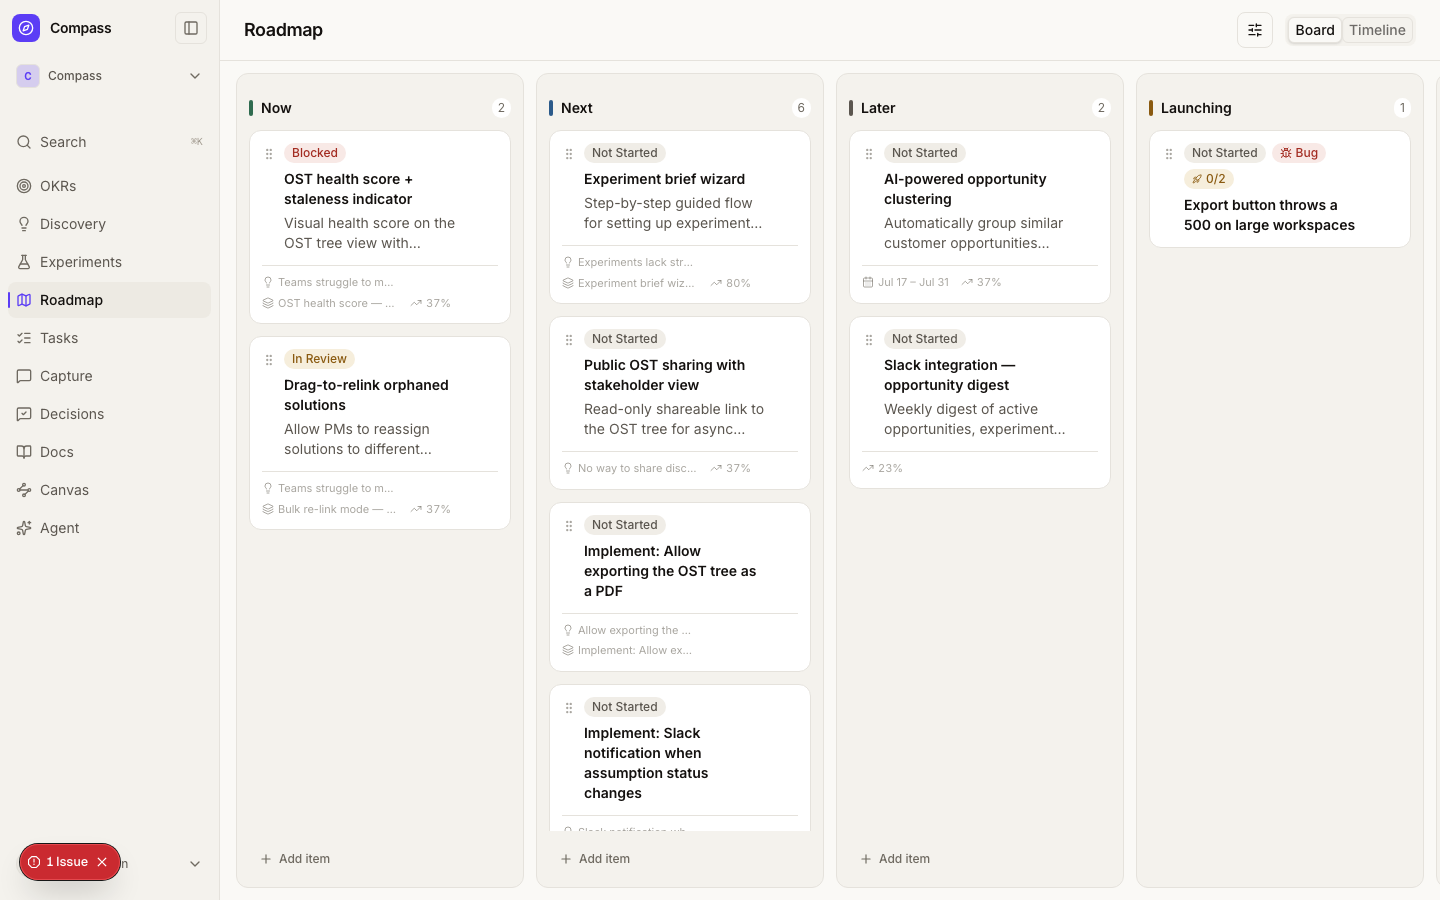
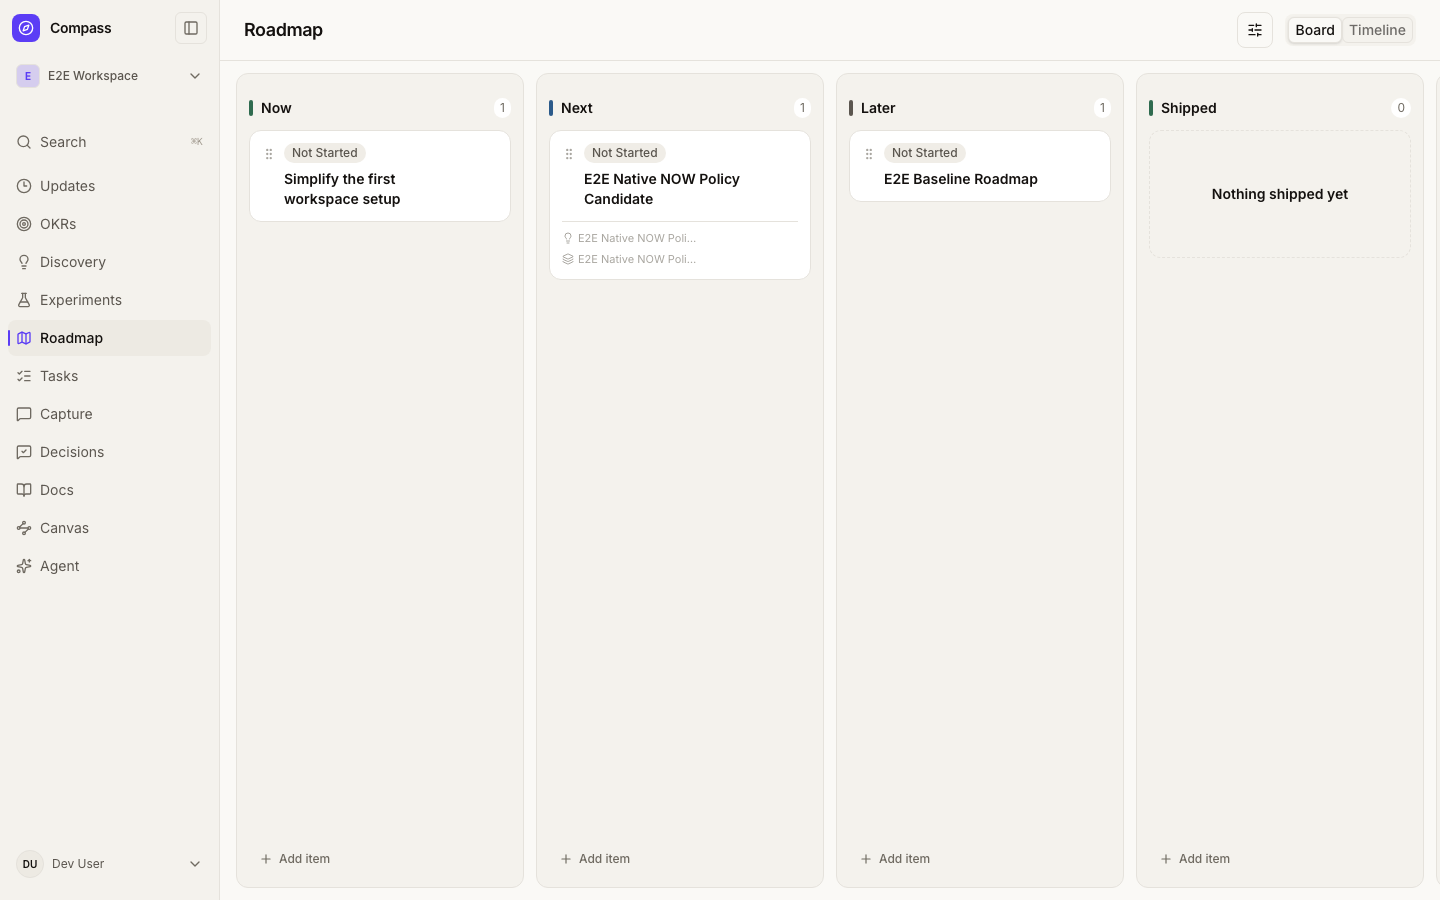
fix: restore mobile Kanban scrolling and touch panning (#290)
* fix: restore mobile Kanban scrolling and touch panning

* fix: fit mobile Kanban columns to available board width

* docs: regenerate desktop and mobile Kanban guide screenshots

diff --git a/e2e/functional/specs/kanban-mobile-scroll.spec.ts b/e2e/functional/specs/kanban-mobile-scroll.spec.ts
@@ -1,0 +1,168 @@
+import { randomUUID } from "node:crypto";
+import pg from "pg";
+import type { Locator, Page } from "@playwright/test";
+import { test, expect } from "../fixtures/index";
+
+test.use({ hasTouch: true, isMobile: true });
+
+async function swipe(page: Page, card: Locator, dx: number, dy: number) {
+  const box = (await card.boundingBox())!;
+  const x = Math.min(box.x + box.width / 2, 280);
+  const y = box.y + box.height / 2;
+  // Real browser touch input, starting on card content rather than its drag
+  // handle. Setting scrollTop would conceal touch-action interception.
+  const touch = await page.context().newCDPSession(page);
+  await touch.send("Input.dispatchTouchEvent", { type: "touchStart", touchPoints: [{ x, y }] });
+  for (let step = 1; step <= 8; step++) {
+    await touch.send("Input.dispatchTouchEvent", { type: "touchMove", touchPoints: [{ x: x + dx * step / 8, y: y + dy * step / 8 }] });
+    await page.waitForTimeout(20);
+  }
+  await touch.send("Input.dispatchTouchEvent", { type: "touchEnd", touchPoints: [] });
+  await touch.detach();
+}
+
+const boards = [
+  { route: "tasks", table: "tasks", extra: "status", value: "BACKLOG" },
+  { route: "discovery", table: "opportunities", extra: "status", value: "EXPLORING" },
+  { route: "experiments", table: "experiments", extra: "status", value: "DESIGNING" },
+  { route: "roadmap", table: "roadmap_items", extra: "horizon", value: "NOW" },
+] as const;
+
+test("solution swimlane card content supports vertical and horizontal touch scrolling", async ({ page, base }) => {
+  const database = new URL(process.env.DATABASE_URL!);
+  if (!["localhost", "127.0.0.1"].includes(database.hostname) || database.pathname !== "/compass_e2e") {
+    throw new Error("Kanban scroll test requires the dedicated local compass_e2e database");
+  }
+  const pool = new pg.Pool({ connectionString: database.toString() });
+  const opportunityId = randomUUID();
+  const ids = Array.from({ length: 18 }, () => randomUUID());
+  try {
+    const workspace = (await pool.query("SELECT w.id FROM compass_dev.workspaces w JOIN compass_dev.organizations o ON w.organization_id=o.id WHERE w.slug='e2e-workspace' AND o.slug='e2e-test-org'")).rows[0];
+    await pool.query("INSERT INTO compass_dev.opportunities (id,workspace_id,title,sort_order) VALUES ($1,$2,'Mobile solution lane',-100)", [opportunityId, workspace.id]);
+    for (const [index, id] of ids.entries()) {
+      await pool.query("INSERT INTO compass_dev.solutions (id,opportunity_id,title,sort_order) VALUES ($1,$2,$3,$4)", [id, opportunityId, `Mobile solution ${index + 1}`, index]);
+    }
+    await page.setViewportSize({ width: 390, height: 844 });
+    await page.goto(`${base}/discovery?view=board&groupBy=opportunity`);
+    await page.waitForLoadState("networkidle");
+    const first = page.getByText("Mobile solution 1", { exact: true });
+    for (const width of [320, 390, 767]) {
+      await page.setViewportSize({ width, height: 844 });
+      const column = first.locator("xpath=ancestor::*[@data-slot='swimlane-column'][1]");
+      const region = column.locator("xpath=ancestor::*[@role='region'][1]");
+      await expect.poll(async () => Math.abs((await column.boundingBox())!.width - (await region.boundingBox())!.width)).toBeLessThan(2);
+    }
+    await page.setViewportSize({ width: 390, height: 844 });
+    await expect(first).toBeInViewport();
+    const firstTop = (await first.boundingBox())!.y;
+    await swipe(page, first, 0, -140);
+    await expect.poll(async () => (await first.boundingBox())!.y).toBeLessThan(firstTop - 50);
+    await page.reload();
+    await page.waitForLoadState("networkidle");
+    const firstLeft = (await first.boundingBox())!.x;
+    await swipe(page, first, -80, 0);
+    await expect.poll(async () => (await first.boundingBox())!.x).toBeLessThan(firstLeft - 35);
+  } finally {
+    await pool.query("DELETE FROM compass_dev.solutions WHERE id=ANY($1::uuid[])", [ids]);
+    await pool.query("DELETE FROM compass_dev.opportunities WHERE id=$1", [opportunityId]);
+    await pool.end();
+  }
+});
+
+for (const board of boards) {
+  test(`${board.route} mobile Kanban scrolls by wheel and touch while desktop keeps independent columns`, async ({ page, base }, testInfo) => {
+    const database = new URL(process.env.DATABASE_URL!);
+    if (!["localhost", "127.0.0.1"].includes(database.hostname) || database.pathname !== "/compass_e2e") {
+      throw new Error("Kanban scroll test requires the dedicated local compass_e2e database");
+    }
+    const pool = new pg.Pool({ connectionString: database.toString() });
+    const ids = Array.from({ length: 18 }, () => randomUUID());
+    try {
+      const workspace = (await pool.query("SELECT w.id FROM compass_dev.workspaces w JOIN compass_dev.organizations o ON w.organization_id=o.id WHERE w.slug='e2e-workspace' AND o.slug='e2e-test-org'")).rows[0];
+      for (const [index, id] of ids.entries()) {
+        const extraColumns = board.route === "experiments" ? ",hypothesis,method,kill_condition" : "";
+        const extraValues = board.route === "experiments" ? ",'Test hypothesis','Test method','Test stop condition'" : "";
+        // Table and column names come only from the static cases above.
+        await pool.query(`INSERT INTO compass_dev.${board.table} (id, workspace_id, title, sort_order, ${board.extra}${extraColumns}) VALUES ($1,$2,$3,$4,$5${extraValues})`, [id, workspace.id, `Mobile scroll card ${index + 1}`, index - 100, board.value]);
+      }
+      await page.setViewportSize({ width: 390, height: 844 });
+      await page.goto(`${base}/${board.route}?view=board`);
+      await page.waitForLoadState("networkidle");
+      const first = page.getByText("Mobile scroll card 1", { exact: true });
+      const last = page.getByText("Mobile scroll card 18", { exact: true });
+      for (const width of [320, 390, 767]) {
+        await page.setViewportSize({ width, height: 844 });
+        const region = page.getByRole("region", { name: /board/i }).first();
+        const column = first.locator("xpath=ancestor::section[1]");
+        const gutters = width < 640 ? 24 : 32;
+        await expect.poll(async () => Math.abs((await column.boundingBox())!.width - ((await region.boundingBox())!.width - gutters))).toBeLessThan(2);
+        if (board.route === "roadmap") {
+          const unscheduled = page.getByTestId("roadmap-unscheduled-column");
+          await expect.poll(async () => Math.abs((await unscheduled.boundingBox())!.width - ((await region.boundingBox())!.width - gutters))).toBeLessThan(2);
+          await expect(unscheduled).toHaveCSS("overflow-y", "visible");
+        }
+      }
+      await page.setViewportSize({ width: 390, height: 844 });
+      await expect(first).toBeInViewport();
+      await expect(last).not.toBeInViewport();
+      await page.mouse.move(170, 550);
+      for (let i = 0; i < 8; i++) {
+        await page.mouse.wheel(0, 650);
+        await page.waitForTimeout(100);
+      }
+      await expect(last).toBeInViewport();
+      await expect(first).not.toBeInViewport();
+      await page.screenshot({ path: testInfo.outputPath(`${board.route}-mobile-bottom.png`) });
+
+      await page.reload();
+      await page.waitForLoadState("networkidle");
+      const firstTop = (await first.boundingBox())!.y;
+      await swipe(page, first, 0, -140);
+      await expect.poll(async () => (await first.boundingBox())!.y).toBeLessThan(firstTop - 50);
+
+      await page.reload();
+      await page.waitForLoadState("networkidle");
+      const firstLeft = (await first.boundingBox())!.x;
+      await swipe(page, first, -140, 0);
+      await expect.poll(async () => (await first.boundingBox())!.x).toBeLessThan(firstLeft - 50);
+
+      if (board.route === "tasks") {
+        await page.reload();
+        await page.waitForLoadState("networkidle");
+        const second = page.getByText("Mobile scroll card 2", { exact: true });
+        const secondCard = second.locator("xpath=ancestor::*[@data-slot='card'][1]");
+        const handle = secondCard.getByRole("button", { name: "Drag to reorder" });
+        const delta = (await first.boundingBox())!.y - (await second.boundingBox())!.y;
+        const saved = page.waitForResponse(response =>
+          response.request().method() === "POST" &&
+          Boolean(response.request().headers()["next-action"]) &&
+          new URL(response.url()).pathname === `${base}/tasks`
+        );
+        await swipe(page, handle, 0, delta);
+        const response = await saved;
+        expect(await response.finished()).toBeNull();
+        expect(response.ok()).toBe(true);
+        await page.reload();
+        await page.waitForLoadState("networkidle");
+        await expect.poll(async () => (await second.boundingBox())!.y).toBeLessThan((await first.boundingBox())!.y);
+      }
+
+      await page.setViewportSize({ width: 1280, height: 800 });
+      await page.reload();
+      await page.waitForLoadState("networkidle");
+      const column = first.locator("xpath=ancestor::section[1]");
+      expect((await column.boundingBox())!.width).toBeGreaterThanOrEqual(280);
+      expect((await column.boundingBox())!.width).toBeLessThanOrEqual(288);
+      const header = column.locator("header");
+      const headerTop = (await header.boundingBox())!.y;
+      await first.hover();
+      await page.mouse.wheel(0, 6000);
+      await expect(last).toBeInViewport();
+      expect((await header.boundingBox())!.y).toBeCloseTo(headerTop, 0);
+      await page.screenshot({ path: testInfo.outputPath(`${board.route}-desktop-bottom.png`) });
+    } finally {
+      await pool.query(`DELETE FROM compass_dev.${board.table} WHERE id=ANY($1::uuid[])`, [ids]);
+      await pool.end();
+    }
+  });
+}

diff --git a/e2e/screenshots.spec.ts b/e2e/screenshots.spec.ts
@@ -1,6 +1,8 @@
 import { expect, test } from "@playwright/test";
 import path from "path";
 import fs from "fs";
+import { randomUUID } from "node:crypto";
+import pg from "pg";
 import {
   GUIDED_UX_SCREENSHOT_TOKEN,
   buildScreenshotCases,
@@ -31,6 +33,12 @@ type StandardScreenshotCase = {
 };
 
 const STANDARD_PAGES: StandardScreenshotCase[] = [
+  ...[
+    { file: "discovery-board-mobile.png", route: "discovery" },
+    { file: "roadmap-mobile.png", route: "roadmap" },
+    { file: "tasks-mobile.png", route: "tasks" },
+    { file: "experiments-mobile.png", route: "experiments" },
+  ].map(({ file, route }) => ({ file, url: `${WORKSPACE_BASE}/${route}?view=board`, viewport: { width: 390, height: 844 } })),
   ...(FUNCTIONAL || process.env.DOCS_SESSION_FILE
     ? [{ file: "marketing-authenticated.png", url: "/" }]
     : []),
@@ -142,6 +150,31 @@ async function prepareScreenshot(
 }
 
 test.describe("docs screenshots", () => {
+  const screenshotTaskId = randomUUID();
+  const screenshotRoadmapId = randomUUID();
+  let screenshotPool: pg.Pool | undefined;
+
+  test.beforeAll(async () => {
+    if (!FUNCTIONAL) return;
+    const database = new URL(process.env.DATABASE_URL!);
+    if (!["localhost", "127.0.0.1"].includes(database.hostname) || database.pathname !== "/compass_e2e") {
+      throw new Error("Synthetic screenshot cards require the dedicated local compass_e2e database");
+    }
+    screenshotPool = new pg.Pool({ connectionString: database.toString() });
+    const { rows: [workspace] } = await screenshotPool.query("SELECT w.id FROM compass_dev.workspaces w JOIN compass_dev.organizations o ON w.organization_id=o.id WHERE w.slug='e2e-workspace' AND o.slug='e2e-test-org'");
+    await screenshotPool.query("INSERT INTO compass_dev.tasks (id,workspace_id,title,status,sort_order) VALUES ($1,$2,'Prepare customer interview questions','BACKLOG',-100)", [screenshotTaskId, workspace.id]);
+    await screenshotPool.query("INSERT INTO compass_dev.roadmap_items (id,workspace_id,title,horizon,sort_order) VALUES ($1,$2,'Simplify the first workspace setup','NOW',-100)", [screenshotRoadmapId, workspace.id]);
+  });
+
+  test.afterAll(async () => {
+    if (!screenshotPool) return;
+    try {
+      await screenshotPool.query("DELETE FROM compass_dev.tasks WHERE id=$1", [screenshotTaskId]);
+      await screenshotPool.query("DELETE FROM compass_dev.roadmap_items WHERE id=$1", [screenshotRoadmapId]);
+    } finally {
+      await screenshotPool.end();
+    }
+  });
   test.use({
     storageState: process.env.DOCS_SESSION_FILE
       ? process.env.DOCS_SESSION_FILE

diff --git a/components/tasks/task-column.tsx b/components/tasks/task-column.tsx
@@ -51,7 +51,7 @@ export function TaskColumn({
   const { setNodeRef, isOver } = useDroppable({ id: `column-${status}`, data: { status } });
 
   return (
-    <BoardColumn data-task-column={status} title={label} count={tasks.length} accent={accent} className="min-w-[280px] flex-1 md:h-full" bodyRef={setNodeRef} bodyId={`task-column-${status}`} bodyClassName={`min-h-44 md:min-h-0 md:max-h-none md:flex-1 md:overflow-y-auto ${isOver ? "rounded-lg bg-primary/5 ring-2 ring-inset ring-ring/25" : ""}`} footer={<AddTaskForm workspaceId={workspaceId} status={status} revalidatePathStr={revalidatePathStr} members={members} onAdd={onTaskAdded} />}>
+    <BoardColumn data-task-column={status} title={label} count={tasks.length} accent={accent} className="w-[calc(100cqw-1.5rem)] min-w-0 flex-none sm:w-[calc(100cqw-2rem)] md:w-72 md:min-w-[280px] md:flex-1 md:h-full" bodyRef={setNodeRef} bodyId={`task-column-${status}`} bodyClassName={`min-h-44 md:min-h-0 md:max-h-none md:flex-1 md:overflow-y-auto ${isOver ? "rounded-lg bg-primary/5 ring-2 ring-inset ring-ring/25" : ""}`} footer={<AddTaskForm workspaceId={workspaceId} status={status} revalidatePathStr={revalidatePathStr} members={members} onAdd={onTaskAdded} />}>
         <SortableContext items={taskIds} strategy={verticalListSortingStrategy}>
           {tasks.length === 0 ? (
             <EmptyState compact title={emptyText} className={isOver ? "border-border-interactive" : undefined} />

diff --git a/components/patterns/board.tsx b/components/patterns/board.tsx
@@ -2,7 +2,9 @@ import type { ComponentProps, ReactNode, Ref } from "react";
 import { cn } from "@/lib/utils";
 
 export function Board({ children, label = "Board", className }: { children: ReactNode; label?: string; className?: string }) {
-  return <div role="region" aria-label={label} className={cn("flex min-w-0 snap-x gap-4 overflow-x-auto pb-3", className)}>{children}</div>;
+  // Mobile columns size against this scrollport, including nested swimlanes,
+  // rather than the viewport (which may also contain panels or lane gutters).
+  return <div role="region" aria-label={label} className={cn("@container flex min-w-0 snap-x gap-4 overflow-x-auto pb-3", className)}>{children}</div>;
 }
 
 type BoardColumnProps = Omit<ComponentProps<"section">, "title"> & {

diff --git a/__tests__/tasks-workspace-layout.test.ts b/__tests__/tasks-workspace-layout.test.ts
@@ -137,7 +137,7 @@ describe("Tasks dashboard workspace layout", () => {
     expect(track.className).toContain("px-3 pt-3 pb-3 sm:px-4 sm:pt-4 md:px-4 md:pt-3");
 
     const column = container.querySelector('[data-task-column="TODO"]')!;
-    expect(column.className).toContain('min-w-[280px] flex-1 md:h-full');
+    expect(column).toHaveClass('w-[calc(100cqw-1.5rem)]', 'min-w-0', 'flex-none', 'sm:w-[calc(100cqw-2rem)]', 'md:w-72', 'md:min-w-[280px]', 'md:flex-1', 'md:h-full');
     // The column must NOT clip its own overflow: a card's drag shadow and focus
     // ring render outside the card box and were being sliced off at the column
     // edge. The board is still the sole horizontal scroller — the column simply

diff --git a/__tests__/components/solution-card.test.tsx b/__tests__/components/solution-card.test.tsx
@@ -53,6 +53,13 @@ function cardFor(title: string) {
 // out — see solution-swimlane-board.tsx.
 
 describe("SolutionCard status badge", () => {
+  it("leaves card content pannable while reserving touch handling for the drag handle", () => {
+    renderCard();
+    const card = cardFor("Guided setup wizard");
+    expect(card.parentElement).not.toHaveClass("touch-none");
+    expect(within(card).getByRole("button", { name: "Drag to reorder" })).toHaveClass("touch-none");
+  });
+
   it("renders the status badge by default, so the panel's flat list keeps today's behavior", () => {
     renderCard();
     expect(within(cardFor("Guided setup wizard")).getByText("Idea")).toBeInTheDocument();

diff --git a/__tests__/experiments-discovery-workspace-layout.test.ts b/__tests__/experiments-discovery-workspace-layout.test.ts
@@ -93,7 +93,8 @@ describe("Experiments and Discovery board layout", () => {
 
       // Each column insets itself and fills the track height...
       const column = container.querySelector("section");
-      expect(column?.className).toContain("min-w-[280px] flex-1 overflow-hidden md:h-full");
+      expect(column).toHaveClass("w-[calc(100cqw-1.5rem)]", "min-w-0", "flex-none", "sm:w-[calc(100cqw-2rem)]", "md:w-72", "md:min-w-[280px]", "md:flex-1", "md:overflow-hidden", "md:h-full");
+      expect(column).not.toHaveClass("overflow-hidden");
 
       // ...while only ITS OWN body (not the column) scrolls vertically.
       const body = column?.querySelector(":scope > div");

diff --git a/components/discovery/opportunity-board.tsx b/components/discovery/opportunity-board.tsx
@@ -131,7 +131,7 @@ function DiscoveryColumn({
       title={label}
       count={items.length}
       accent={accent}
-      className="min-w-[280px] flex-1 overflow-hidden md:h-full"
+      className="w-[calc(100cqw-1.5rem)] min-w-0 flex-none sm:w-[calc(100cqw-2rem)] md:w-72 md:min-w-[280px] md:flex-1 md:overflow-hidden md:h-full"
       bodyRef={setNodeRef}
       bodyClassName={`min-h-44 md:min-h-0 md:max-h-none md:flex-1 md:overflow-y-auto ${isOver ? "rounded-lg bg-primary/5 ring-2 ring-inset ring-ring/25" : ""}`}
       footer={<CreateOpportunityForm workspaceId={workspaceId} defaultStatus={status} squads={squads} />}

diff --git a/__tests__/roadmap-workspace-layout.test.ts b/__tests__/roadmap-workspace-layout.test.ts
@@ -165,7 +165,8 @@ describe("Roadmap dashboard workspace layout", () => {
     );
 
     const column = container.querySelector("section")!;
-    expect(column.className).toContain("min-w-[280px] flex-1 overflow-hidden md:h-full");
+    expect(column).toHaveClass("w-[calc(100cqw-1.5rem)]", "min-w-0", "flex-none", "sm:w-[calc(100cqw-2rem)]", "md:w-72", "md:min-w-[280px]", "md:flex-1", "md:overflow-hidden", "md:h-full");
+    expect(column).not.toHaveClass("overflow-hidden");
 
     const body = container.querySelector("#roadmap-column-NOW")!;
     expect(body.className).toContain("md:max-h-none");

diff --git a/components/experiments/experiment-board.tsx b/components/experiments/experiment-board.tsx
@@ -82,7 +82,7 @@ function ExperimentColumn({
       title={label}
       count={items.length}
       accent={accent}
-      className="min-w-[280px] flex-1 overflow-hidden md:h-full"
+      className="w-[calc(100cqw-1.5rem)] min-w-0 flex-none sm:w-[calc(100cqw-2rem)] md:w-72 md:min-w-[280px] md:flex-1 md:overflow-hidden md:h-full"
       bodyRef={setNodeRef}
       bodyClassName={`min-h-44 md:min-h-0 md:max-h-none md:flex-1 md:overflow-y-auto ${isOver ? "rounded-lg bg-primary/5 ring-2 ring-inset ring-ring/25" : ""}`}
     >

diff --git a/components/roadmap/roadmap-card.tsx b/components/roadmap/roadmap-card.tsx
@@ -122,7 +122,7 @@ export function RoadmapCard({ item, workspaceId, revalidatePathStr, onArchive, o
   const hasDates = Boolean(item.startDate || item.endDate);
 
   return (
-    <div ref={setNodeRef} style={style} className="touch-none group">
+    <div ref={setNodeRef} style={style} className="group">
       <EntityCard
         interactive
         className="w-full p-3 data-[pending]:opacity-60 data-[dragging=true]:shadow-[var(--shadow-panel)] data-[dragging=true]:ring-2 data-[dragging=true]:ring-ring/30"

diff --git a/components/roadmap/unscheduled-items-panel.tsx b/components/roadmap/unscheduled-items-panel.tsx
@@ -113,7 +113,7 @@ export function UnscheduledItemsColumn({
       count={items.length}
       accent="neutral"
       data-testid="roadmap-unscheduled-column"
-      className="min-w-[280px] flex-1 overflow-hidden md:h-full"
+      className="w-[calc(100cqw-1.5rem)] min-w-0 flex-none sm:w-[calc(100cqw-2rem)] md:w-72 md:min-w-[280px] md:flex-1 md:overflow-hidden md:h-full"
       bodyId="unscheduled-items-column"
       bodyClassName="min-h-44 md:min-h-0 md:max-h-none md:flex-1 md:overflow-y-auto"
     >
